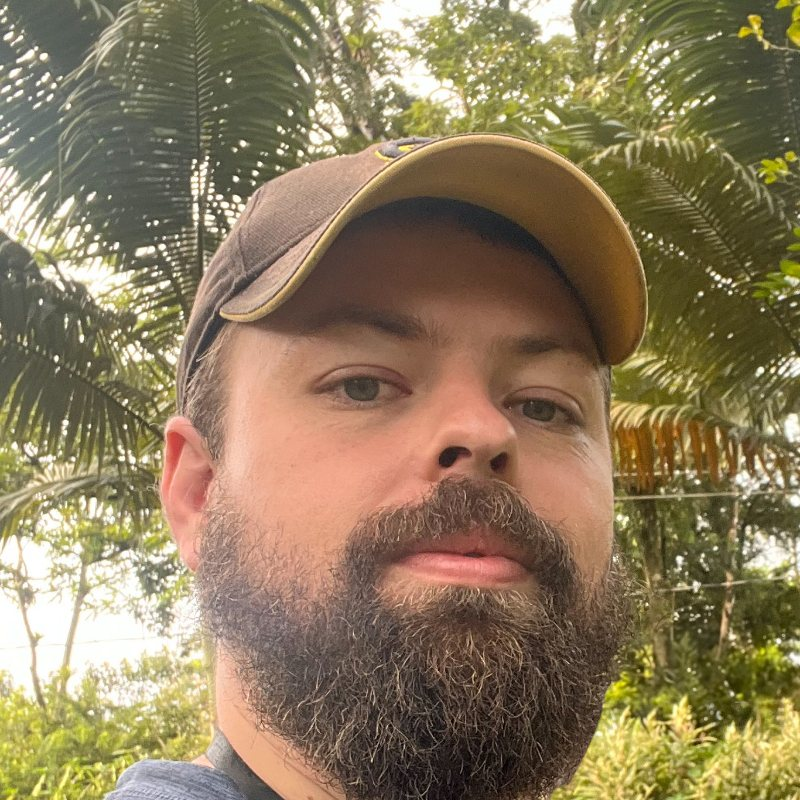
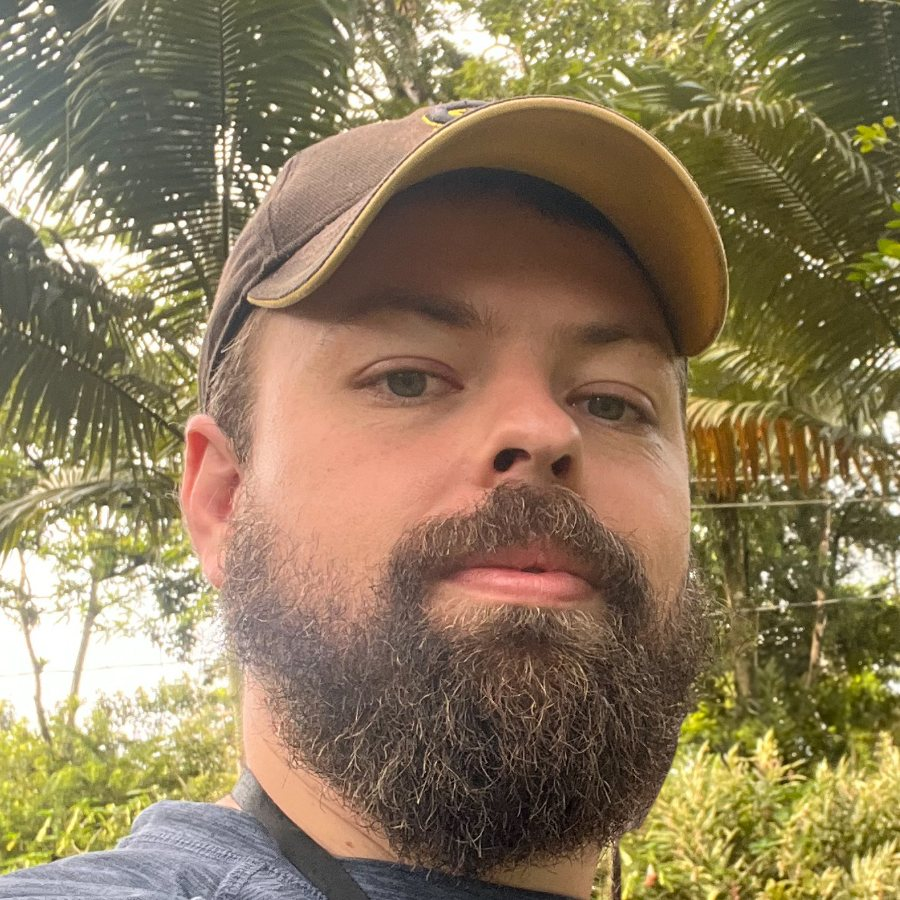
Fix the projects markup, tighten spacing, enlarge the portrait
- Selected Projects had a stray <article class="project"> with no content and
  no closing tag. Every card after it was nesting inside that empty one, and
  the unbalanced tags ran to the end of the document. Removed it; the six
  cards lay out as a grid again
- Portrait re-cropped square around the head rather than the top of the frame,
  and the circle grew from 16.5rem to 20rem, so the cap and beard now sit
  inside the circle instead of being clipped by it
- Spacing pass across the page: shorter section rhythm, tighter hero, cards
  and lists. An empty section lead now collapses instead of leaving a gap
  under the section heading

Page height at 1200px: 8385px to 6646px.

Claude-Session: https://claude.ai/code/session_01Y2pwNu3m7x87MVAU9d7rd7

diff --git a/assets/css/styles.css b/assets/css/styles.css
@@ -33,7 +33,7 @@
   --wrap: 68rem;
   --measure: 38rem;
   --radius: 14px;
-  --section-y: clamp(3.5rem, 8vw, 6.5rem);
+  --section-y: clamp(2.5rem, 5vw, 4.25rem);
 }
 
 /* Dark mode goes properly black, and the brand orange carries the accents. */
@@ -92,7 +92,7 @@ body {
   color: var(--text);
   font-family: var(--font-sans);
   font-size: 1rem;
-  line-height: 1.65;
+  line-height: 1.6;
   -webkit-font-smoothing: antialiased;
 }
 
@@ -247,7 +247,7 @@ a:hover { text-decoration-thickness: 2px; }
 /* ---------- hero ---------- */
 
 .hero {
-  padding-block: clamp(4rem, 12vw, 8rem) clamp(3rem, 8vw, 5rem);
+  padding-block: clamp(2.5rem, 7vw, 4.5rem) clamp(2rem, 5vw, 3rem);
   background: radial-gradient(60rem 32rem at 12% -10%, var(--accent-soft), transparent 65%);
 }
 
@@ -259,7 +259,7 @@ a:hover { text-decoration-thickness: 2px; }
 }
 
 .hero__photo {
-  width: clamp(10rem, 20vw, 16.5rem);
+  width: clamp(12rem, 24vw, 20rem);
   aspect-ratio: 1;
   object-fit: cover;
   border-radius: 50%;
@@ -270,7 +270,7 @@ a:hover { text-decoration-thickness: 2px; }
 @media (max-width: 52rem) {
   .hero__inner { grid-template-columns: 1fr; }
   .hero__text { order: 2; }
-  .hero__photo { width: 8rem; margin-bottom: .5rem; }
+  .hero__photo { width: 10rem; margin-bottom: .5rem; }
 }
 
 .hero__eyebrow {
@@ -279,14 +279,14 @@ a:hover { text-decoration-thickness: 2px; }
   letter-spacing: .12em;
   text-transform: uppercase;
   color: var(--text-faint);
-  margin-bottom: 1.25rem;
+  margin-bottom: .75rem;
 }
 
 .hero__name {
   font-size: clamp(2.15rem, 6vw, 3.6rem);
   font-weight: 800;
   letter-spacing: -.035em;
-  margin-bottom: 1.5rem;
+  margin-bottom: 1rem;
   text-wrap: balance;
 }
 
@@ -294,14 +294,14 @@ a:hover { text-decoration-thickness: 2px; }
   max-width: var(--measure);
   font-size: clamp(1.05rem, 2.2vw, 1.25rem);
   color: var(--text-soft);
-  margin-bottom: 2rem;
+  margin-bottom: 1.5rem;
 }
 
 .hero__links { display: flex; flex-wrap: wrap; gap: .75rem; }
 
 .hero__meta {
-  margin: 2.25rem 0 0;
-  padding-top: 1.5rem;
+  margin: 1.5rem 0 0;
+  padding-top: 1rem;
   border-top: 1px solid var(--border);
   font-family: var(--font-mono);
   font-size: .8rem;
@@ -344,16 +344,19 @@ a:hover { text-decoration-thickness: 2px; }
 
 .section__lead {
   max-width: var(--measure);
-  font-size: 1.075rem;
+  font-size: 1.05rem;
   color: var(--text-soft);
-  margin-bottom: 2.5rem;
+  margin-bottom: 1.6rem;
 }
+
+/* the leads are optional; an empty one shouldn't leave a hole */
+.section__lead:empty { display: none; }
 
 .sub {
   font-size: .95rem;
   font-weight: 650;
   letter-spacing: .02em;
-  margin: 2.25rem 0 1rem;
+  margin: 1.75rem 0 .75rem;
 }
 .sub:first-child { margin-top: 0; }
 
@@ -385,7 +388,7 @@ a:hover { text-decoration-thickness: 2px; }
 
 .service {
   background: var(--bg);
-  padding: 1.75rem;
+  padding: 1.4rem 1.5rem;
   display: flex;
   flex-direction: column;
   gap: .75rem;
@@ -409,7 +412,7 @@ a:hover { text-decoration-thickness: 2px; }
 .projects {
   display: grid;
   grid-template-columns: repeat(auto-fit, minmax(20rem, 1fr));
-  gap: 1.25rem;
+  gap: 1rem;
 }
 
 .project {
@@ -417,11 +420,11 @@ a:hover { text-decoration-thickness: 2px; }
   border: 1px solid var(--border);
   border-left: 3px solid var(--accent-bright);
   border-radius: var(--radius);
-  padding: 1.5rem;
+  padding: 1.3rem 1.4rem;
   box-shadow: var(--shadow);
   display: flex;
   flex-direction: column;
-  gap: .6rem;
+  gap: .5rem;
 }
 
 .project__org {
@@ -443,7 +446,7 @@ a:hover { text-decoration-thickness: 2px; }
   grid-template-columns: minmax(0, 1.35fr) minmax(0, 1fr);
   gap: clamp(1.5rem, 4vw, 2.5rem);
   align-items: center;
-  margin-bottom: 3rem;
+  margin-bottom: 2rem;
 }
 
 @media (max-width: 52rem) {
@@ -507,7 +510,7 @@ a:hover { text-decoration-thickness: 2px; }
 .talk-feature__body .talk__title { font-size: 1.35rem; margin-bottom: .6rem; }
 
 .talk-photo {
-  margin: 0 0 2.5rem;
+  margin: 0 0 1.75rem;
 }
 .talk-photo img {
   width: 100%;
@@ -525,8 +528,8 @@ a:hover { text-decoration-thickness: 2px; }
 .talks {
   display: grid;
   grid-template-columns: repeat(auto-fit, minmax(17rem, 1fr));
-  gap: 1.75rem 2rem;
-  padding-top: 2rem;
+  gap: 1.4rem 2rem;
+  padding-top: 1.5rem;
   border-top: 1px solid var(--border);
 }
 
@@ -546,11 +549,11 @@ a:hover { text-decoration-thickness: 2px; }
 .split {
   display: grid;
   grid-template-columns: repeat(auto-fit, minmax(19rem, 1fr));
-  gap: clamp(2rem, 5vw, 3.5rem);
+  gap: clamp(1.5rem, 4vw, 2.75rem);
   align-items: start;
 }
 
-.list { display: grid; gap: 1.1rem; }
+.list { display: grid; gap: .8rem; }
 .list__item { padding-left: 1rem; border-left: 2px solid var(--border); }
 .list__item:hover { border-left-color: var(--accent-bright); }
 .list__title { font-weight: 600; margin: 0 0 .15rem; }
@@ -561,7 +564,7 @@ a:hover { text-decoration-thickness: 2px; }
 .pursuits {
   display: grid;
   grid-template-columns: repeat(auto-fit, minmax(18rem, 1fr));
-  gap: 1.25rem;
+  gap: 1rem;
 }
 
 /* same card as a project, without the orange rule down the side —
@@ -570,11 +573,11 @@ a:hover { text-decoration-thickness: 2px; }
   background: var(--surface);
   border: 1px solid var(--border);
   border-radius: var(--radius);
-  padding: 1.5rem;
+  padding: 1.3rem 1.4rem;
   box-shadow: var(--shadow);
   display: flex;
   flex-direction: column;
-  gap: .6rem;
+  gap: .5rem;
 }
 
 .pursuit__meta {
@@ -592,7 +595,7 @@ a:hover { text-decoration-thickness: 2px; }
 /* ---------- contact ---------- */
 
 .section--contact { background: var(--bg-alt); }
-.contact__text { max-width: var(--measure); color: var(--text-soft); font-size: 1.075rem; margin-bottom: 1.75rem; }
+.contact__text { max-width: var(--measure); color: var(--text-soft); font-size: 1.05rem; margin-bottom: 1.25rem; }
 .contact__links { display: flex; flex-wrap: wrap; gap: .75rem; }
 .section--contact .btn { background: var(--bg); }
 .section--contact .btn--primary { background: var(--accent-bright); }
@@ -600,7 +603,7 @@ a:hover { text-decoration-thickness: 2px; }
 /* ---------- footer ---------- */
 
 .site-footer {
-  padding-block: 2.5rem;
+  padding-block: 1.75rem;
   border-top: 1px solid var(--accent-line);
   font-size: .88rem;
   color: var(--text-faint);

diff --git a/index.html b/index.html
@@ -189,8 +189,6 @@
           </article>
 
           <article class="project">
-
-          <article class="project">
             <p class="project__org">Intel &middot; Product Owner</p>
             <h3 class="project__title">Cross-BU SCADA platform selection</h3>
             <p class="project__text">

diff --git a/README.md b/README.md
@@ -56,7 +56,7 @@ banner comment like `<!-- ============ PROJECTS ============ -->`.
 
 | file | used for |
 | --- | --- |
-| `alexander-kuesel.jpg` | hero portrait, 800×800 |
+| `alexander-kuesel.jpg` | hero portrait, 900×900, cropped square around the head |
 | `ovation-users-conference.jpg` | speaking section, 1600×882 |
 | `IMG_3872.JPG`, `IMG_0173.JPEG` | the originals, kept as sources; not referenced by the page |
 
